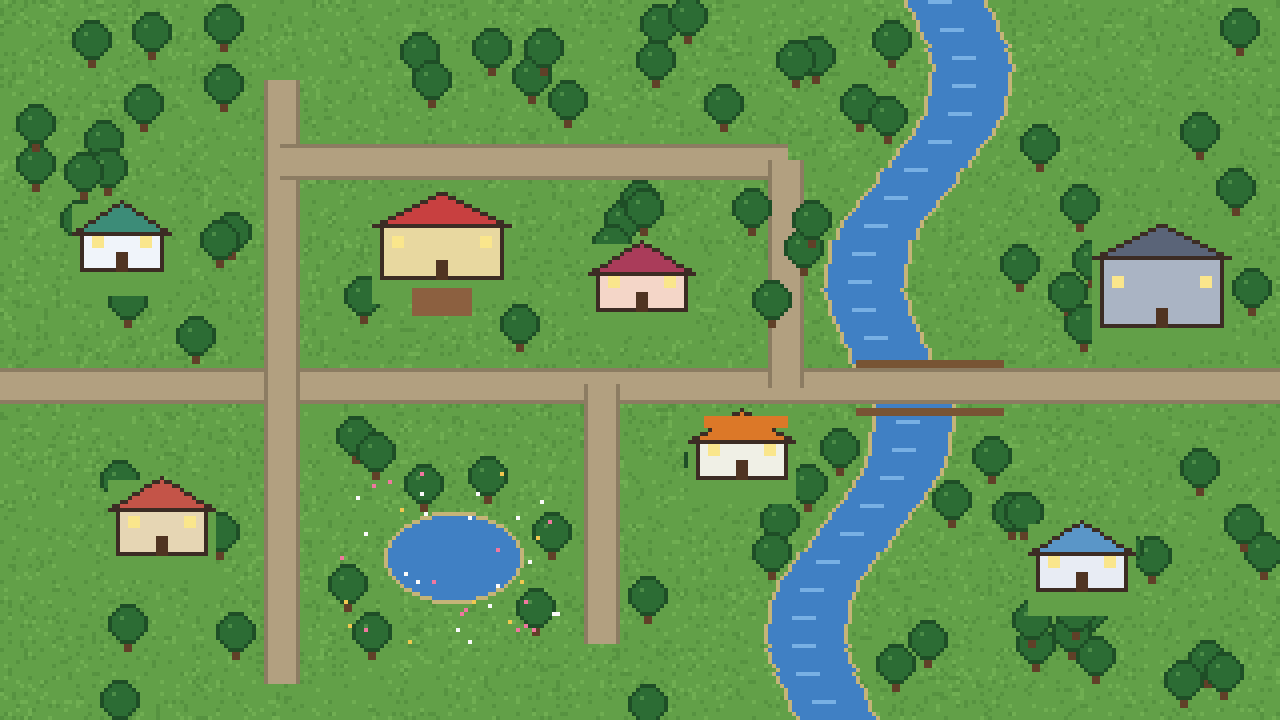
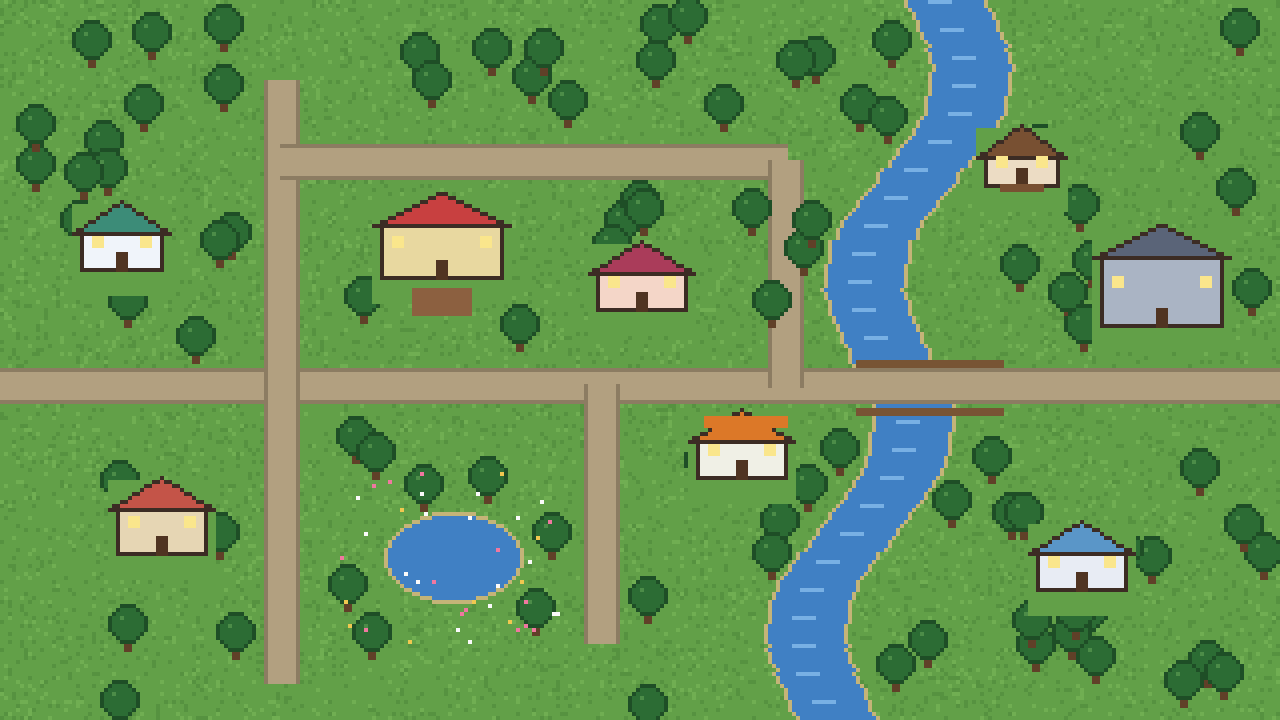
Pass 2: perf consequences, fed tuning, coffee/2pm pickup, real commands, incident SLAs

Changed region(s): [[0.75, 0.1528, 0.8438, 0.3056]]

diff --git a/tools/gen_town_map.py b/tools/gen_town_map.py
@@ -60,6 +60,8 @@ d.rectangle([(176, 104), (196, 106)], fill=(220, 120, 40))
 building(30, 60, 20, 14, (240, 244, 250), (60, 140, 120))      # pharmacy
 building(270, 140, 22, 14, (232, 236, 244), (90, 150, 200))    # dental
 building(160, 70, 22, 14, (244, 214, 200), (170, 60, 90))      # diner
+building(255, 40, 18, 12, (236, 220, 196), (120, 80, 50))     # coffee (Bean There)
+d.rectangle([(250, 46), (260, 47)], fill=(120, 80, 50))
 # park: flowers
 for _ in range(40):
     x, y = random.randint(84, 140), random.randint(118, 160)

diff --git a/DEVLOG.md b/DEVLOG.md
@@ -145,3 +145,11 @@ A Stardew-loving playtester bot (`tests/playtest_bot.gd`) now plays full weeks t
   - A shorter workday: ~2.5 h tickets, leave after 2, a 3rd means staying late.
   - Performance rebalance: -3 drift per workday, home tickets capped.
   - Town map: Stardew-style travel with time locks, pickup window consequences, and park/pharmacy/dental/diner.
+
+## 2026-10-14 — Pass 2 (playtest report follow-ups)
+- Performance consequences: Gary check-in (<40), PIP (<25, autopilot suspended), Friday bonus ($60 at ≥75). Endings reordered so crispy is reachable (PIP/low perf + stress); uptime requires perf ≥85, no PIP and 0 SLA breaches.
+- Girls Fed: start 55, overnight -10, school snack +15, Jess dinner fallback at 7:30 PM, red HUNGRY warning.
+- Pickup opens at 2:00 PM; new coffee stop on the town map.
+- Real commands with ticket-aware output and Tab completion (dig/host, journalctl, uptime, sudo, top/htop, ip a, curl, cat, ls, history, clear, man/help, free, ps, who).
+- Incident SLA = optimal×4 + 4–16 min of random slack; hints cost time; the postmortem shows the overrun and what cost time.
+- All personas re-run for 100 weeks; results are in MULTI_PLAYTEST_REPORT.md "Pass 2 results".

diff --git a/README.md b/README.md
@@ -67,3 +67,10 @@ The calendar (top of the sidebar) has picture day, taco Wednesday, Lily's Thursd
 - Each place shows its travel time. Places are locked by time or phase, and the lock reason is listed.
 - Home stays locked until the girls are picked up, except on Wednesday, when Jess has pickup.
 - Missing the after-care window means Jess leaves work to get them: Girls -15, Jess -8, stress +8.
+
+### Pass 2 mechanics
+- **Performance:** below 40 Gary checks in; below 25 you're on a PIP (autopilot suspended, burnout risk); at 75 or above you get a $60 Friday bonus.
+- **Girls Fed:** a snack at school pickup (+15); Jess cooks if they're still hungry at 7:30 PM. Watch for the red HUNGRY warning.
+- **Afternoon:** pickup opens at 2:00 PM; grab a coffee on the town map in between.
+- **Terminal:** common real commands (dig, journalctl, uptime, sudo, top, ip a, curl, cat, ls, history, clear, man) work, with Tab completion.
+- **Incidents** have a visible SLA. Hints cost time, and breaches hurt performance and block the Uptime ending.

diff --git a/TASKS.md b/TASKS.md
@@ -79,3 +79,14 @@ Source of truth: `/workspace/game-design/uptime-game-design-doc-v2.md` (§2.5 On
 - [x] Multi-persona playtest (6 bots × 100 weeks) + MULTI_PLAYTEST_REPORT.md
 - [x] Marty: input refocus, Tab completion, live suggestions, shorter workday, town map
 - [ ] Design recs from MULTI_PLAYTEST_REPORT (not implemented yet; see the report)
+
+## Pass 2 (done 2026-10-14)
+- [x] Low-perf consequences (check-in, PIP, bonus, autopilot loss, endings)
+- [x] Girls Fed tuning + warnings
+- [x] Fill 1:30–2:30 gap (2:00 pickup, coffee stop)
+- [x] Real command recognition + Tab completion
+- [x] Tighter incident SLAs with fair feedback
+## Next
+- [ ] nmap / reboot / telnet responses
+- [ ] Newbie SLA breach rate (30%) — consider gentler first-week SLAs
+- [ ] Separate user:// save per bot process so personas can run in parallel
